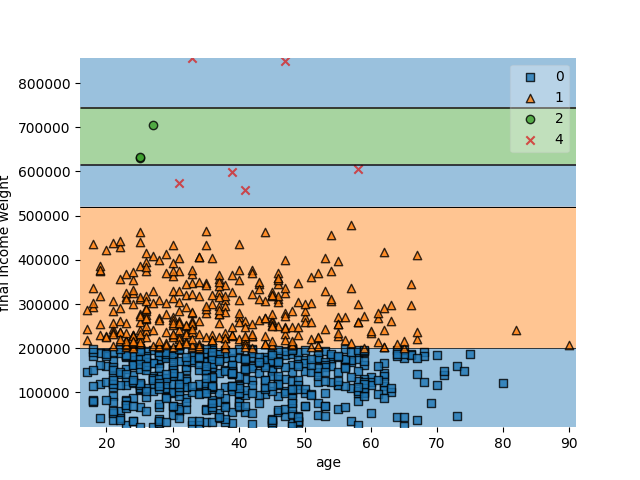
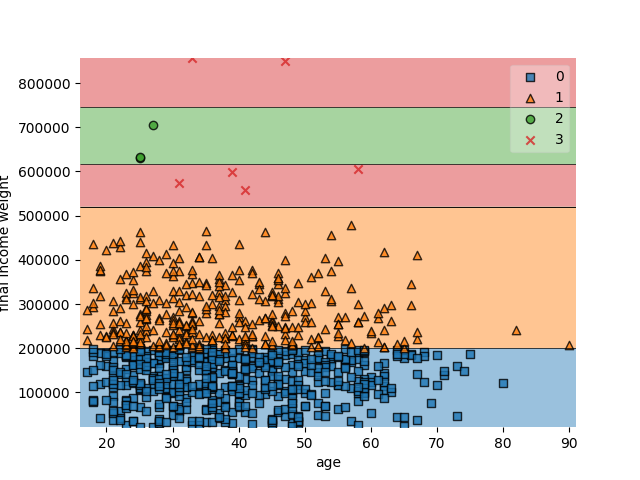
labeling bugfix

Changed region(s): [[0.125, 0.0938, 0.9062, 0.25], [0.125, 0.3438, 0.9062, 0.4375], [0.8438, 0.2812, 0.875, 0.3125]]

diff --git a/src/05_knn/main.py b/src/05_knn/main.py
@@ -21,7 +21,7 @@ def income_label(row):
     else:
         if(age <= 30):
             return 2 # 'reborn'
-        elif(30 < age and 60 <= age):
+        elif(30 < age and age <= 60):
             return 3 # 'strategist'
         else:
             return 4 # 'waiting new age'
